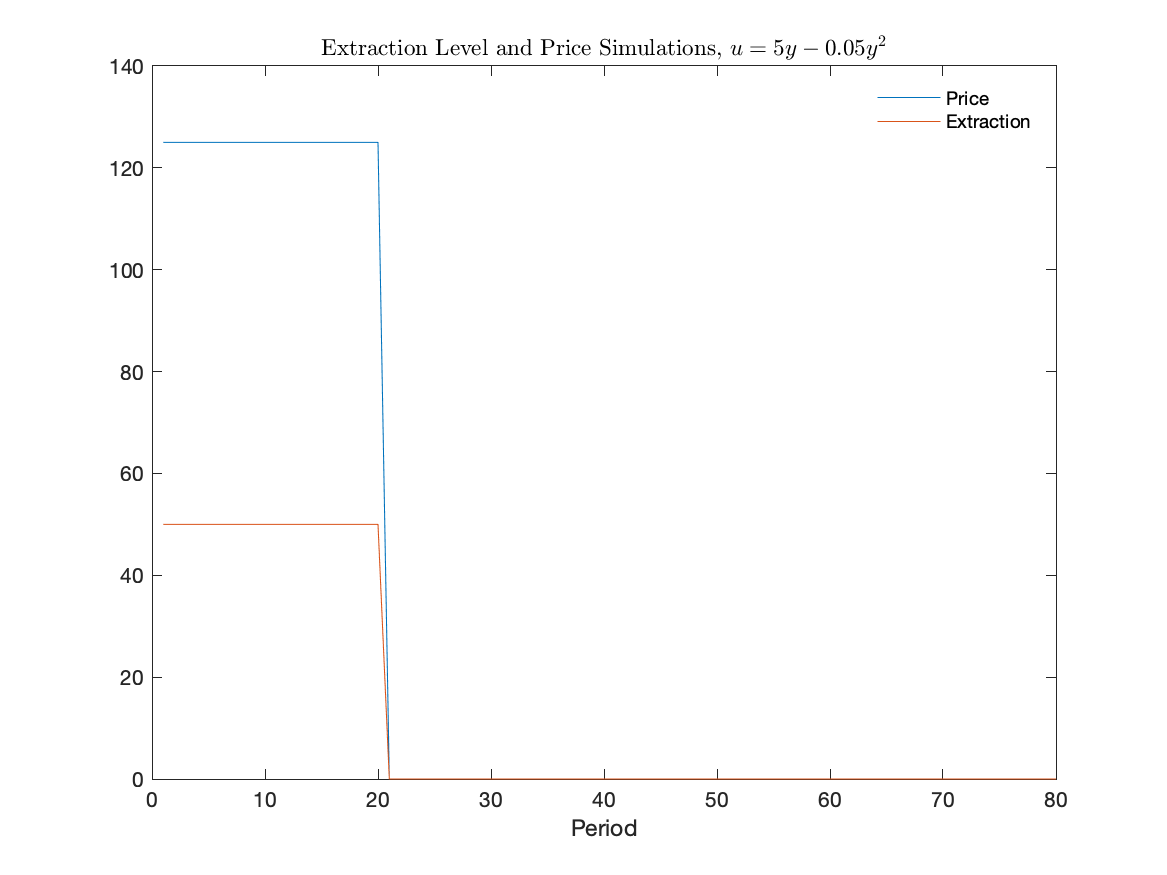
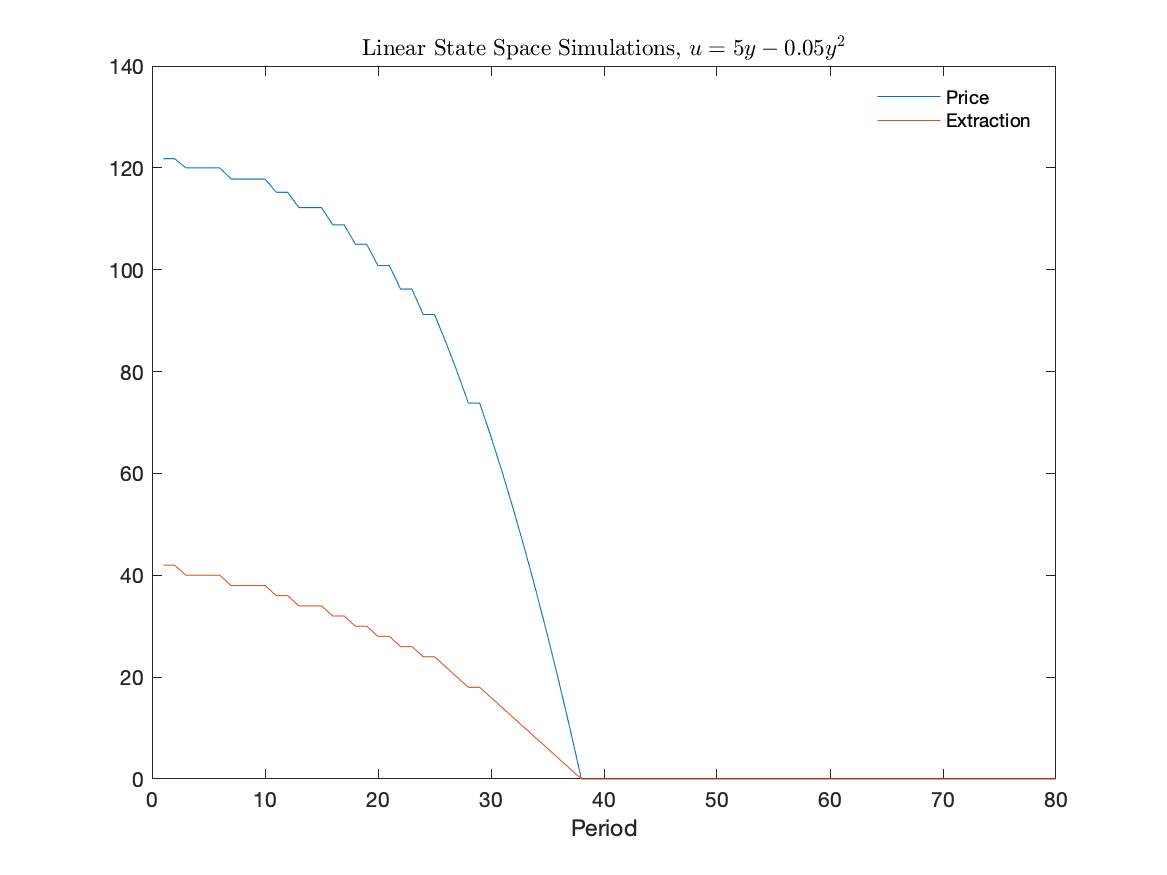
completed problem 2, interpolated state space, added plots

diff --git a/year2/environmental/comp_ps_p2.m b/year2/environmental/comp_ps_p2.m
@@ -73,23 +73,118 @@ T = nan(N,N*nA);
 rows = 1:501;
 
 for k=1:nA
-%     inds = S - A(k);
-%     inds(inds<=0) = 1;
 
     inds = zeros(N,2);
     wts  = zeros(N,2);
     
     %here we need to find the weights
     for i=1:N
-        [inds(i,:),wts(i,:)] = interp_states(S(i),k,S,A);
+        [inds(i,:),wts(i,:)] = interp_actions(S(i),k,S,A);
     end
 
     inds_stack = [inds(:,1); inds(:,2)];
     wts_stack  = [wts(:,1) ; wts(:,2)];
-    rows_stack = [rows; rows];
+    rows_stack = [rows'; rows'];
 
     T(:,1+(k-1)*N:k*N) = sparse(rows_stack(wts_stack > 0),inds_stack(wts_stack > 0), ...
         wts_stack(wts_stack > 0),N,nA);
 end
 
 T = sparse(T);
+
+%% part 2c - solve da model
+
+% init parameters
+error     = 1e12;
+error_tol = 1e-8;
+
+% init value and optim choice
+V_hist = nan(N,1000);
+C_hist = nan(N,1000);
+
+% iteration counter
+n_iter = 0;
+
+V     = repelem(0,N)';
+
+Vnext = nan(N,nA);
+
+while error > error_tol
+    
+    % count number iterations
+    n_iter = n_iter + 1;
+    Vold  = V;
+
+    Vnext = zeros(N,nA);
+    for k=1:nA %looping thru action space
+        Vnext(:,k) = T(:,1+(k-1)*N:k*N)*V;
+    end
+
+    % grab optimized value and action column
+    [V, C] = max(U + delta .* Vnext,[],2);
+
+    % store values and choices
+    V_hist(:,n_iter) = V;
+    C_hist(:,n_iter) = C;
+
+    error = max(abs(V-Vold));
+
+end
+
+%% part 2d - simulate da model
+
+% find optimal transition matrix
+Topt = zeros(N,nA);
+
+for i=1:N
+    Topt(i, C_hist(i,n_iter)) = 1;
+end
+
+% init parameters for simulation
+t      = 80;
+st     = S_tot;
+
+% init storage for output
+V_hist = nan(t,1);
+C_hist = nan(t,1);
+S_hist = nan(t,1);
+
+for i=1:80
+
+    st_ind  = find(S <= st,1,'last'); % find lower bound state index
+    act_ind = find(Topt(st_ind,:) > 0);
+
+    if st_ind == N
+        action = A(act_ind);
+    else
+        wt = (st - S(st_ind))/(S(st_ind+1) - S(st_ind));
+        action = wt * A(act_ind) + (1-wt) * A(act_ind+1);
+    end
+    
+    st = st - action; % update stock
+
+    S_hist(i) = st;
+    C_hist(i) = action;
+    V_hist(i) = u(action);
+    
+end
+
+%% part 2e - plots
+
+figure;
+plot([V_hist, C_hist]);
+legend("Price", "Extraction", Location="northeast");
+legend box off
+xlabel("Period")
+
+if u_fun_flag == 1
+    u_txt = "2\sqrt{y}$";
+elseif u_fun_flag == 2
+    u_txt = "5y - 0.05y^2$";
+end
+
+title(strcat("Compressed State Space Simulations, $u=", u_txt), ...
+    'Interpreter','latex');
+
+saveas(gcf, ['figures/part2e_u' num2str(u_fun_flag) '.png']);
+

diff --git a/year2/environmental/comp_ps_p1.m b/year2/environmental/comp_ps_p1.m
@@ -33,7 +33,7 @@ nA = numel(A);
 %% part 1c - define utility of extraction
 
 % pick utility function of interest
-u_fun_flag = 1; % choose 1 or 2
+u_fun_flag = 2; % choose 1 or 2
 
 if u_fun_flag == 1
     u = @(x) 2*x.^0.5;
@@ -92,17 +92,17 @@ C_hist = nan(N,1000);
 n_iter = 0;
 
 V     = repelem(0,N)';
-Vold  = V;
+
 Vnext = nan(N,nA);
 
 while error > error_tol
     
     % count number iterations
     n_iter = n_iter + 1;
+    Vold  = V;
 
     Vnext = zeros(N,nA);
     for k=1:nA %looping thru action space
-        %Vnext(:,k) = T(:,1+(k-1)*N:k*N)*U(:,k);
         Vnext(:,k) = T(:,1+(k-1)*N:k*N)*V;
     end
 
@@ -115,10 +115,6 @@ while error > error_tol
 
     error = max(abs(V-Vold));
 
-    Vold = V;
-
-%     U    = Vnext;
-
 end
 
 %% part 1h - find optimal transition matrix
@@ -127,7 +123,7 @@ end
 Topt = zeros(N,nA);
 
 for i=1:N
-    Topt(i, C_hist(i,1)) = 1;
+    Topt(i, C_hist(i,n_iter)) = 1;
 end
 
 %% part 1i - simulate for t periods
@@ -153,8 +149,6 @@ for i=1:80
     
 end
 
-% save(['part1_values_u' num2str(u_fun_flag)],"C_hist","V_hist","S_hist");
-
 %% part 1j - plots
 
 figure;
@@ -169,7 +163,7 @@ elseif u_fun_flag == 2
     u_txt = "5y - 0.05y^2$";
 end
 
-title(strcat("Extraction Level and Price Simulations, $u=", u_txt), ...
+title(strcat("Linear State Space Simulations, $u=", u_txt), ...
     'Interpreter','latex');
 
 saveas(gcf, ['figures/part1j_u' num2str(u_fun_flag) '.png']);

diff --git a/year2/environmental/functions/interp_actions.m b/year2/environmental/functions/interp_actions.m
@@ -1,4 +1,4 @@
-function [inds, weights] = interp_states(state, action_ind, S, A)
+function [inds, weights] = interp_actions(state, action_ind, S, A)
     
     next_state = state-A(action_ind);
     next_state(next_state < 0) = 0;
